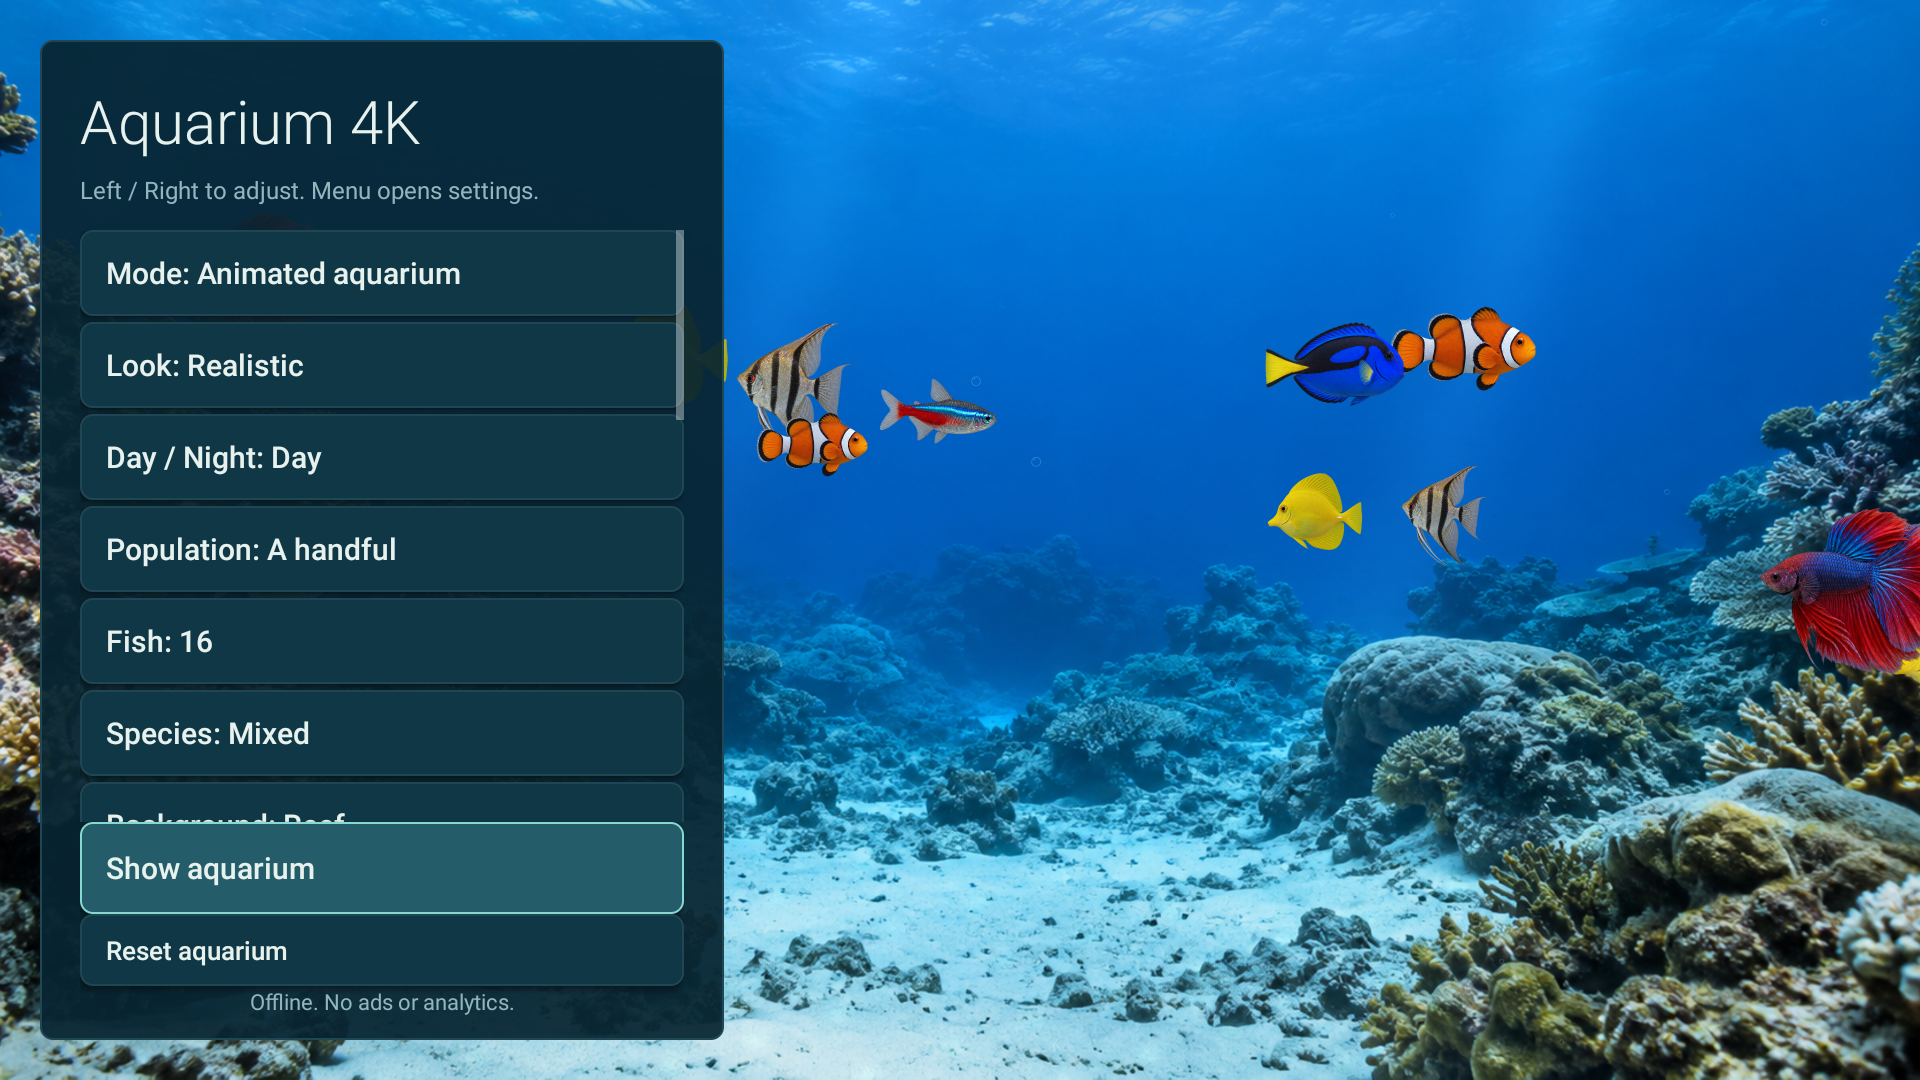
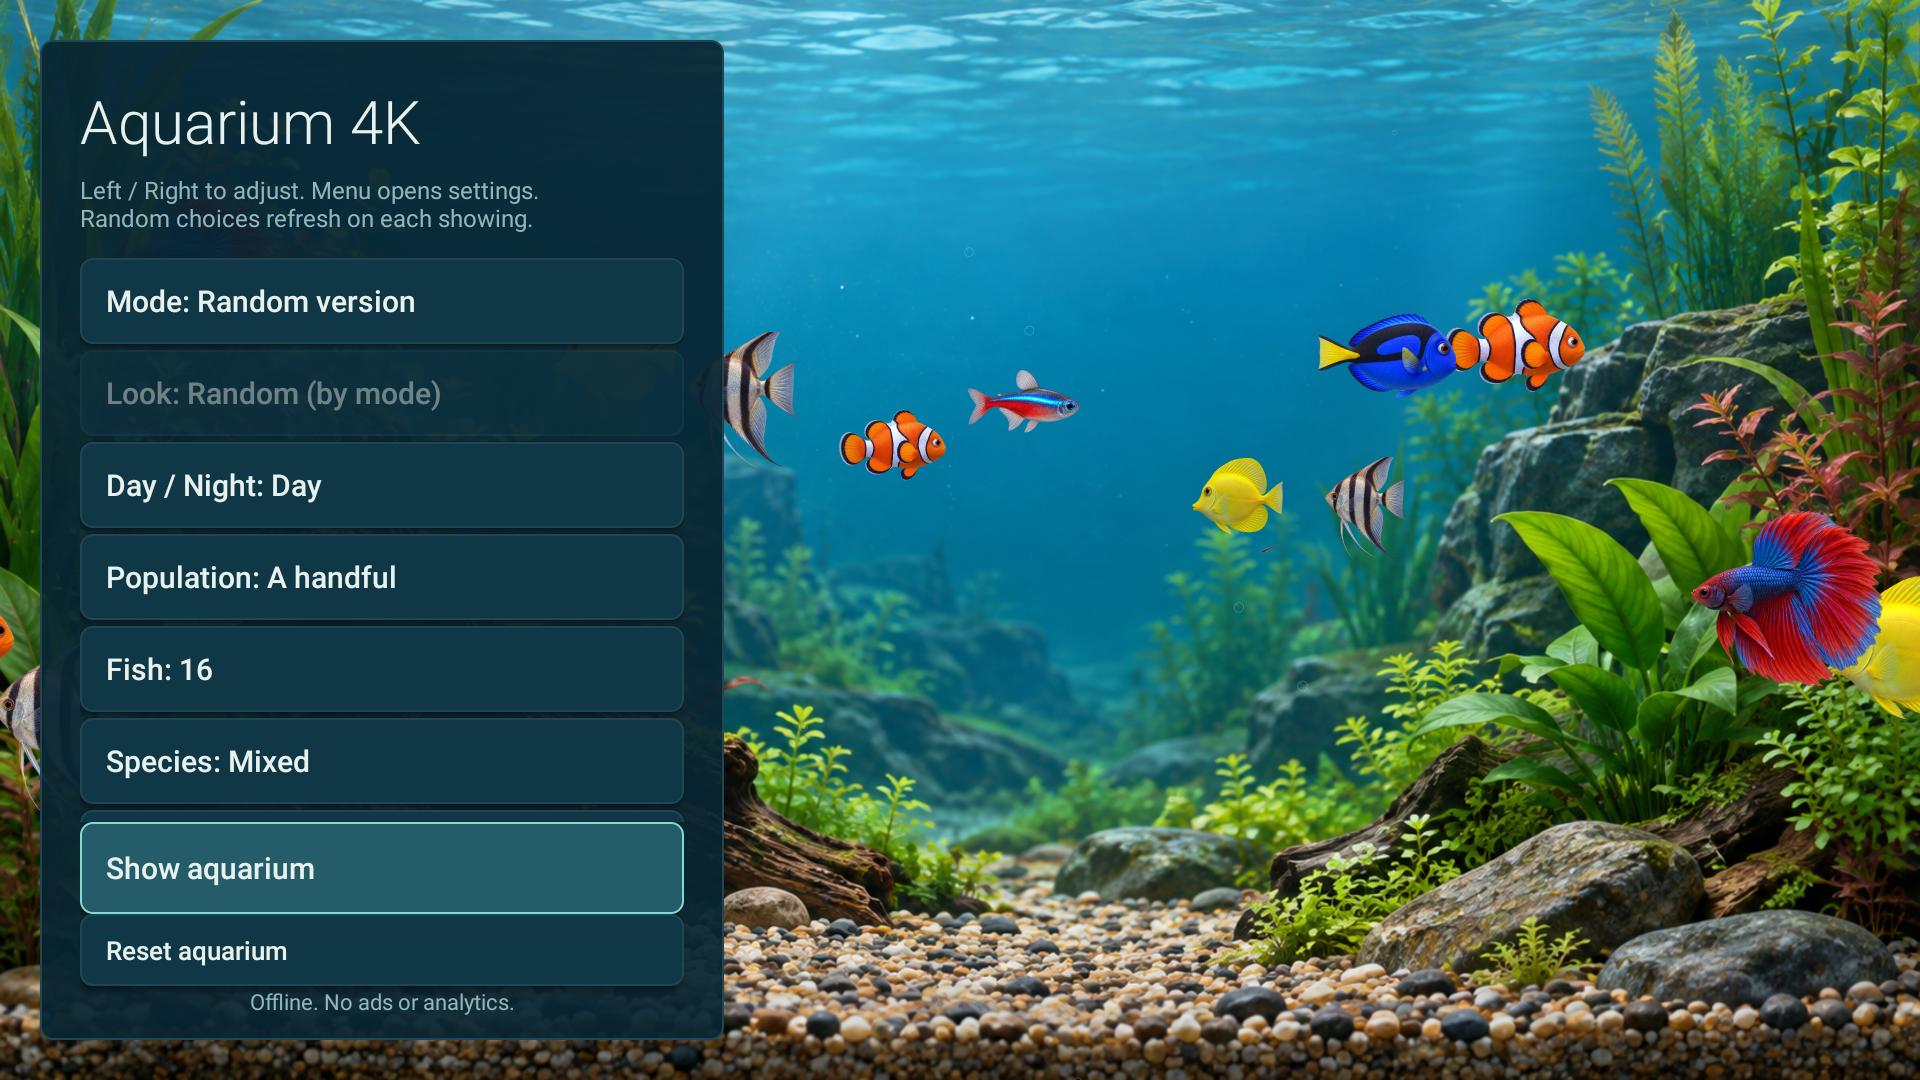
Fix randomized aquarium dream startup

diff --git a/tests/LifecycleCoverageTest.java b/tests/LifecycleCoverageTest.java
@@ -2,6 +2,7 @@ package com.jeremykenedy.firetv.aquarium;
 
 import static org.junit.Assert.assertEquals;
 import static org.junit.Assert.assertFalse;
+import static org.junit.Assert.assertSame;
 import static org.junit.Assert.assertTrue;
 
 import android.app.Activity;
@@ -176,7 +177,10 @@ public final class LifecycleCoverageTest {
         service.onAttachedToWindow();
         assertFalse(service.isInteractive());
         assertTrue(service.isFullscreen());
+        AquariumDisplay playback = ReflectionHelpers.getField(service, "playback");
+        AquariumOptions resolved = ReflectionHelpers.getField(playback, "options");
         service.onDreamingStarted();
+        assertSame(resolved, ReflectionHelpers.getField(playback, "options"));
         service.onDreamingStopped();
         service.onDetachedFromWindow();
         service.onDetachedFromWindow();

diff --git a/src/com/jeremykenedy/firetv/aquarium/AquariumDreamService.java b/src/com/jeremykenedy/firetv/aquarium/AquariumDreamService.java
@@ -22,7 +22,6 @@ public final class AquariumDreamService extends DreamService {
     public void onDreamingStarted() {
         super.onDreamingStarted();
         if (playback != null) {
-            playback.configure(AquariumRandomizer.resolve(new AquariumPreferences(this).read()));
             playback.start();
         }
     }

diff --git a/docs/VERIFICATION.md b/docs/VERIFICATION.md
@@ -1,6 +1,23 @@
 # Device verification
 
-Aquarium 4K 1.3.1 verification, October 8, 2026
+Aquarium 4K 1.3.2 verification, October 9, 2026
+
+## Version 1.3.2 release checks
+
+The signed APK uses version name `1.3.2`, version code `6`, and the existing
+release signing certificate. The DreamService keeps the Random options
+resolved when its display is attached instead of resolving and configuring a
+second time when the dream starts.
+
+| Platform | Environment | Signed release checks |
+|---|---|---|
+| Fire TV | Physical API 30 TV with 4K panel | In-place upgrade, settings controls, randomized 15-second idle startup, active AquariumDreamService, rendered aquarium capture, remote navigation and preview return |
+| Android TV | Official API 31 ARM64 emulator, 1920x1080 | Signed APK installation, settings and preview startup, remote navigation, saved options after reopening, preview return |
+| Google TV | Official API 34 ARM64 emulator, 1920x1080 | In-place upgrade, settings and preview startup, remote navigation, saved options after reopening, preview return |
+
+Only Fire TV is physical hardware. Android TV and Google TV results are from
+emulators; physical models still need hardware testing. No preference schema,
+minimum Android version, requested permissions, or network access changed.
 
 ## Version 1.3.1 release checks
 

diff --git a/docs/RELEASING.md b/docs/RELEASING.md
@@ -22,10 +22,10 @@ python3 scripts/check-docs.py
 bash build.sh
 python3 check_apk.py
 
-gh release create v1.3.1 \
+gh release create v1.3.2 \
   build/aquarium-4k.apk build/aquarium-4k.apk.sha256 \
   --repo jeremykenedy/fire-tv-aquarium \
-  --target "$(git rev-parse HEAD)" --title 'Aquarium 4K 1.3.1' \
+  --target "$(git rev-parse HEAD)" --title 'Aquarium 4K 1.3.2' \
   --notes-file build/release-notes.txt
 ```
 
@@ -51,9 +51,9 @@ tested release APK, and never publish CI's temporary-key APK as an upgrade.
 After publishing, download the two uploaded assets into a separate directory:
 
 ```bash
-gh release download v1.3.1 --repo jeremykenedy/fire-tv-aquarium \
+gh release download v1.3.2 --repo jeremykenedy/fire-tv-aquarium \
   --pattern aquarium-4k.apk --pattern aquarium-4k.apk.sha256 \
-  --dir build/release-1.3.1
+  --dir build/release-1.3.2
 ```
 
 Compare the downloaded APK's SHA-256 with the downloaded checksum and locally

diff --git a/CHANGELOG.md b/CHANGELOG.md
@@ -1,5 +1,14 @@
 # Changelog
 
+## 1.3.2 - 2026-10-09
+
+- Keep one resolved set of Random options for the complete screensaver session.
+- Prevent a second renderer configuration during dream startup, avoiding a
+  renderer switch while the TV is opening the aquarium.
+- No breaking changes, major feature changes, new commands, or new flags.
+- Upgrade in place from 1.3.1 with the same package and signing key; saved
+  preferences and screensaver backups are preserved.
+
 ## 1.3.1 - 2026-10-08
 
 - Add explicit cleartext blocking and system-only certificate trust to the APK.

diff --git a/README.md b/README.md
@@ -131,8 +131,8 @@ python3 install.py --device DEVICE_IP:5555
 
 The installer uses an in-place upgrade. Matching package and signing identity
 retain aquarium preferences, and the first saved screensaver backup remains the
-restore baseline. Version 1.3.1 keeps the signing identity and minimum Android
-version of 1.2.0. Existing choices remain fixed until you select Random.
+restore baseline. Version 1.3.2 keeps the signing identity and minimum Android
+version unchanged. Existing choices remain fixed until you select Random.
 
 To select the previous screensaver again:
 
